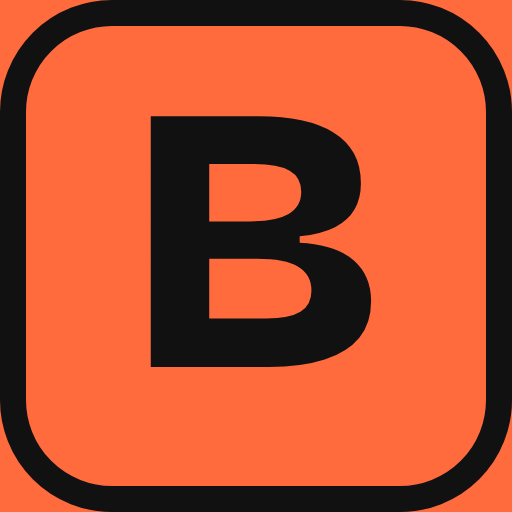
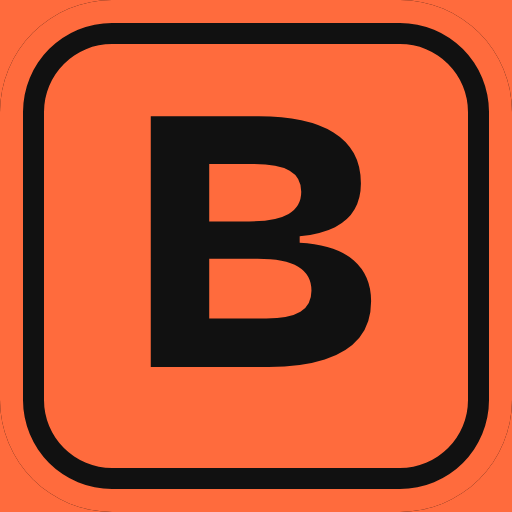
Repaso del viernes (semana + concepto de hace semanas) e icono con borde negro interior
Claude-Session: https://claude.ai/code/session_013CToqDYFkbzszWcoCkjAFo

Changed region(s): [[0.0, 0.0, 1.0, 1.0]]

diff --git a/index.html b/index.html
@@ -401,6 +401,7 @@ dialog h2:focus{outline:none}
 .pop{animation:pop .3s ease}
 .cmpt{width:100%;border-collapse:collapse;font-variant-numeric:tabular-nums}.cmpt th,.cmpt td{padding:8px 6px;text-align:right;border-bottom:1px solid var(--line)}.cmpt th:first-child,.cmpt td:first-child{text-align:left;color:var(--muted)}.cmpt th{font-size:.8rem;font-weight:700;vertical-align:bottom}.cmpt .dot{display:inline-block;width:10px;height:10px;border-radius:50%;margin-right:5px}.cmpt td:not(:first-child){white-space:nowrap}.cmpt td:first-child{font-size:.9rem}.cmpt tr.tot td{font-weight:800;font-size:1rem;border-bottom:0;color:var(--ink,inherit)}.cmpt tr.tot td:first-child{color:inherit}.cmpmsg{margin:12px 0 0;padding:10px 12px;border-radius:10px;background:color-mix(in srgb,var(--accent) 12%,transparent)}
 .cchips{display:flex;flex-wrap:wrap;gap:8px}.cchips .chip{cursor:pointer;width:auto;flex:0 0 auto;max-width:100%;padding:6px 10px;font-size:.8rem}#caprichos>*{min-width:0}.crow{grid-template-columns:minmax(0,1fr);min-width:0}.crow>*{min-width:0}.crow2 select{min-width:0;width:100%}.cenj button{min-width:0;white-space:nowrap;overflow:hidden;text-overflow:ellipsis}#capres .kpis{grid-template-columns:repeat(3,minmax(0,1fr));gap:6px}#capres .kpi{padding:10px 8px}#capres .big{font-size:1.15rem}#capres .kpi .eyebrow{font-size:.62rem}.crow{border:1px solid var(--line);border-left:5px solid var(--e);border-radius:12px;padding:10px 8px;display:grid;gap:8px}.crow1,.crow2{display:flex;gap:8px;align-items:center}.cin{font:inherit;padding:8px 10px;border:1px solid var(--line);border-radius:8px;background:var(--surface);color:var(--ink);min-width:0}.crow1 .cin{flex:1;font-weight:700}.cprice{display:flex;align-items:center;gap:4px;font-weight:700}.cprice .cin{width:5.5em;text-align:right}.crow2 select{flex:1}.cdel{border:0;background:transparent;color:var(--muted);font-size:1.1rem;padding:6px 8px;cursor:pointer}.cenj{display:grid;grid-template-columns:repeat(3,1fr);gap:4px}.cenj button{border:1.5px solid var(--x);background:transparent;color:var(--ink);border-radius:999px;padding:7px 2px;font:inherit;font-size:.74rem;font-weight:700;cursor:pointer}.cenj button.on{background:var(--x);color:#fff}.cmeta{margin:0;font-size:.85rem;color:var(--muted)}.cbar{display:grid;grid-template-columns:minmax(0,7.5em) 1fr auto;gap:8px;align-items:center;font-size:.85rem}.cbl{overflow:hidden;text-overflow:ellipsis;white-space:nowrap}.cbt{height:12px;border-radius:6px;background:var(--surface-2);overflow:hidden}.cbt i{display:block;height:100%;border-radius:6px}.cbv{font-variant-numeric:tabular-nums;font-weight:700}.cplan{border-radius:14px;padding:14px;background:color-mix(in srgb,var(--accent) 10%,transparent);display:grid;gap:10px}.cplan.good{background:color-mix(in srgb,var(--good) 12%,transparent)}.cplan h3{margin:0}.cplan p{margin:0}.linkbtn{border:0;background:none;padding:0;color:var(--c,var(--accent));font:inherit;font-weight:700;text-decoration:underline;cursor:pointer}
+.rvcard{border:2px solid var(--brand,var(--accent));background:color-mix(in srgb,var(--accent) 7%,var(--surface))}.rvcard h3{margin:0}.rvdone{display:flex;gap:12px;align-items:center;border-left:5px solid var(--good)}.rvi{font-size:1.5rem}.rvold{margin:0;font-size:.85rem;font-weight:700;color:var(--accent)}.rvback{padding:14px;border-radius:12px;background:var(--surface-2);font-size:1.05rem;line-height:1.45;border-left:4px solid var(--c)}
 </style>
 
 <div class="wrap">
@@ -936,7 +937,7 @@ const EXAMPLE=[3.7,4.3,3,2.7,3.3,2,4.7,2.3,3,4,2.7,2.3,4,3.7];
 const store={get(k,d){try{const v=localStorage.getItem("brujula:"+k);return v?JSON.parse(v):d}catch(e){return d}},set(k,v){try{localStorage.setItem("brujula:"+k,JSON.stringify(v))}catch(e){}}};
 const P0=()=>({v:[],s:[],s3:"",up:"",down:"",flow:"",causes:[],who:"",letter:"",upL:[],downL:[],whoL:[],fut:[],proud:[],exp:[{t:"",d:false},{t:"",d:false},{t:"",d:false}],f:{verb:"ayudar",que:"",quien:"",s:"",v:""},done:{},pa:null,paHist:[],versions:[],fDate:null,lastReview:null,reviews:0});
 let S={mood:store.get("mood",{}),grp:Object.assign({m:[],wk:{}},store.get("grp",{})),name:store.get("name",""),quizR:store.get("quiz",{}),qz:null,seen:store.get("seen",{}),tour:null,tourDone:store.get("tourDone",false),view:"hoy",answers:store.get("answers",{}),active:store.get("active",null),history:store.get("history",[]),tests:store.get("tests",[]),buddy:store.get("buddy",""),P:Object.assign(P0(),store.get("purpose",{})),pOpen:null,route:store.get("route",null),keep:store.get("keep",[]),extra:store.get("extra",{}),grat:store.get("grat",[]),more:false,rescued:false,breath:false,misIdx:0,misClosed:false,tips:store.get("tips",[]),bud:store.get("bud",{sent:false,skip:false,log:{}}),sharePrompt:store.get("sharePrompt",null),
-  step:0,exMode:"conceptos",exArea:null,exMyth:false,exQ:"",sim:{m:30,r:5,age:18,wait:10,fee:0},lat:{d:1.5,y:40},capr:store.get("capr",[]),caprH:store.get("caprH",8)};
+  step:0,exMode:"conceptos",exArea:null,exMyth:false,exQ:"",sim:{m:30,r:5,age:18,wait:10,fee:0},lat:{d:1.5,y:40},capr:store.get("capr",[]),learn:store.get("learn",{}),rev:store.get("rev",{}),rv:null,caprH:store.get("caprH",8)};
 const save=()=>{store.set("answers",S.answers);store.set("active",S.active);store.set("history",S.history);store.set("tests",S.tests);store.set("buddy",S.buddy);store.set("purpose",S.P);store.set("route",S.route);store.set("keep",S.keep);store.set("extra",S.extra);store.set("grat",S.grat);store.set("tips",S.tips);store.set("bud",S.bud);store.set("sharePrompt",S.sharePrompt);store.set("grp",S.grp);store.set("mood",S.mood)};
 const VALUES=["Aprender","Ayudar","Honestidad","Libertad","Familia","Amistad","Creatividad","Justicia","Aventura","Salud","Esfuerzo","Lealtad","Respeto","Naturaleza","Independencia","Diversión","Seguridad","Espiritualidad","Belleza","Liderazgo","Humor","Tranquilidad","Reconocimiento","Superación"];
 const STRENGTHS=["Creatividad","Curiosidad","Juicio","Amor por aprender","Perspectiva","Valentía","Perseverancia","Honestidad","Entusiasmo","Capacidad de amar","Amabilidad","Inteligencia social","Trabajo en equipo","Sentido de la justicia","Liderazgo","Capacidad de perdonar","Humildad","Prudencia","Autocontrol","Sensibilidad por la belleza","Gratitud","Esperanza","Humor","Espiritualidad"];
@@ -1013,7 +1014,7 @@ function badges(){const logs=allLogs(),areasDone=new Set(S.history.filter(h=>h.f
   ["star","Cumbre","Llega a 900 puntos.",pt>=900,[Math.min(pt,900),900],"hoy"]]}
 
 /* ---------- reto activo ---------- */
-function startReto(id){S.active={id,start:today(),plan:"",log:{},rating:null};save();toast("Reto empezado. ¡A por el día 1!");go("hoy")}
+function startReto(id){markLearn(id);S.active={id,start:today(),plan:"",log:{},rating:null};save();toast("Reto empezado. ¡A por el día 1!");go("hoy")}
 function dayN(){return S.active?Math.min(diff(S.active.start,today())+1,99):0}
 function goodDays(a){let g=0;for(let k=0;k<7;k++){const v=a.log[addDays(a.start,k)];if(v==="si"||v==="poco")g++}return g}
 function finishReto(next){const a=S.active,passed=goodDays(a)>=4;S.history.push({id:a.id,start:a.start,end:today(),plan:a.plan,log:a.log,rating:a.rating,finished:true,passed,skipped:next==="skip",sto:a.sto,myEnd:a.myEnd});
@@ -1055,7 +1056,7 @@ const isIOS=/iPhone|iPad|iPod/i.test(UA);
 const isStandalone=(()=>{try{return !!(navigator.standalone||(window.matchMedia&&window.matchMedia("(display-mode: standalone)").matches))}catch(e){return false}})();
 let canStore=true;try{localStorage.setItem("brujula:t","1");localStorage.removeItem("brujula:t")}catch(e){canStore=false}
 try{navigator.storage&&navigator.storage.persist&&navigator.storage.persist()}catch(e){}
-const KEYS=["capr","caprH","name","seen","quiz","grp","mood","answers","active","history","tests","buddy","purpose","route","keep","extra","grat","tips","bud","sharePrompt"];
+const KEYS=["learn","rev","capr","caprH","name","seen","quiz","grp","mood","answers","active","history","tests","buddy","purpose","route","keep","extra","grat","tips","bud","sharePrompt"];
 function backupCode(){const o={};KEYS.forEach(k=>o[k]=store.get(k,null));o.v=1;return "BRUJULA-"+btoa(unescape(encodeURIComponent(JSON.stringify(o))))}
 function restoreCode(code){try{const raw=code.trim().replace(/^BRUJULA-/,"");const o=JSON.parse(decodeURIComponent(escape(atob(raw))));if(o.v!==1)throw 0;KEYS.forEach(k=>{if(o[k]!==null&&o[k]!==undefined)store.set(k,o[k])});return true}catch(e){return false}}
 function envBanner(){
@@ -1179,10 +1180,47 @@ function grpEditor(){
    ${ks.length?`<div><p class="eyebrow" style="margin-bottom:4px">Semanas anteriores</p>${ks.map(k=>{const r=grpDone(k);return `<p class="muted" style="font-size:.88rem">Viernes ${k.split("-").reverse().slice(0,2).join("/")}: lo cumplisteis ${r.yes.length} de ${S.grp.m.length+1}${r.yes.length?` (${esc(grpList(r.yes))})`:""}</p>`}).join("")}</div>`:""}
   </div>${grpFriCard()}`;
 }
+/* ---------- repaso semanal ---------- */
+function markLearn(id){if(!CI[id])return;const t=today(),x=S.learn[id];if(x&&x.l===t)return;S.learn[id]={f:x?x.f:t,l:t};store.set("learn",S.learn)}
+function rvSeed(s){let h=2166136261;for(const ch of s){h^=ch.charCodeAt(0);h=Math.imul(h,16777619)}return ()=>{h^=h<<13;h^=h>>>17;h^=h<<5;return ((h>>>0)%10000)/10000}}
+function rvItems(fk){
+  const R=rvSeed(fk),from=addDays(fk,-6),old1=addDays(fk,-35),old2=addDays(fk,-14);
+  const L=Object.entries(S.learn).filter(([id])=>CI[id]);
+  const shuf=a=>{a=a.slice();for(let j=a.length-1;j>0;j--){const r=Math.floor(R()*(j+1));[a[j],a[r]]=[a[r],a[j]]}return a};
+  const wk=shuf(L.filter(([,x])=>x.l>=from).map(([id])=>id));
+  const oldPref=shuf(L.filter(([id,x])=>x.f<=addDays(fk,-21)&&x.f>=old1&&!wk.includes(id)).map(([id])=>id));
+  const oldAny=shuf(L.filter(([id,x])=>x.f<=old2&&!wk.includes(id)&&!oldPref.includes(id)).map(([id])=>id));
+  const old=[...oldPref,...oldAny];
+  const nW=Math.min(wk.length,4),nO=Math.min(old.length,5-nW>1&&wk.length<4?5-nW:1);
+  const ids=[...wk.slice(0,nW).map(id=>[id,0]),...old.slice(0,nO).map(id=>[id,1])];
+  return ids.map(([id,isOld])=>{const qs=(QZ[id.slice(0,3)]||[]).map((q,i)=>[q,i]).filter(([q])=>q[0]===id);
+    if(qs.length){const [,qi]=qs[Math.floor(R()*qs.length)],o=shuf([0,1,2]);return {id,old:isOld,type:"q",qi,o}}
+    return {id,old:isOld,type:"f"}});
+}
+function rvCard(){
+  const fk=friKey();if(!fk)return "";const done=S.rev[fk];
+  if(done)return `<div class="card rvdone"><span class="rvi">🔁</span><div><b>Repaso de la semana hecho</b><p class="muted" style="margin:2px 0 0">Has recordado ${done.ok} de ${done.n}. <button class="linkbtn" data-act="rv-start">Repetirlo</button></p></div></div>`;
+  const it=rvItems(fk);if(!it.length)return "";
+  return `<div class="card stack rvcard"><p class="eyebrow">Viernes · 2 minutos</p><h3>🔁 Repaso de la semana</h3><p class="muted">${it.length} ${it.length===1?"pregunta":"preguntas"} sobre lo que has leído esta semana${it.some(x=>x.old)?" y alguna de hace unas semanas":""}. Intentar recordar es lo que hace que algo se quede: releer no sirve casi de nada.</p><button class="btn" data-act="rv-start" style="width:max-content">Empezar el repaso</button></div>`;
+}
+function vRepaso(){
+  const Z=S.rv;
+  if(!Z||!Z.items.length)return `<section class="stack"><p class="eyebrow">Repaso de la semana</p><h1>Nada que repasar todavía</h1><p class="muted">Cuando abras conceptos durante la semana, el viernes podrás repasarlos aquí.</p><button class="btn" data-go="explorar" style="width:max-content">Ir a Explorar</button></section>`;
+  const n=Z.items.length;
+  if(Z.step<n){const it=Z.items[Z.step],c=CI[it.id],a=AREAS[c.a];
+    const top=`<div class="row" style="justify-content:space-between"><span class="chip"><span class="dot"></span>${a.n}</span><span class="muted" style="font-size:.85rem">${Z.step+1} de ${n}</span></div><div class="progress"><span style="width:${Z.step/n*100}%"></span></div>${it.old?`<p class="rvold">De hace unas semanas: ¿aún te acuerdas?</p>`:""}`;
+    if(it.type==="q"){const q=QZ[it.id.slice(0,3)][it.qi];return `<section class="stack"><p class="eyebrow">Repaso de la semana</p><div class="card stack area" style="--h:${a.h}">${top}<h2 style="font-size:1.2rem">${esc(q[1])}</h2><div class="stack" style="gap:8px">${it.o.map(o=>`<button class="btn ghost" style="text-align:left;justify-content:flex-start;white-space:normal;max-width:100%" data-rva="${o}">${esc(q[2+o])}</button>`).join("")}</div><p class="muted" style="font-size:.8rem">Las soluciones, al final</p></div></section>`}
+    return `<section class="stack"><p class="eyebrow">Repaso de la semana</p><div class="card stack area" style="--h:${a.h}">${top}<h2 style="font-size:1.2rem">¿Cuál es la idea clave de «${esc(c.t)}»?</h2>${Z.flip?`<div class="rvback">${esc(c.q)}</div><p class="muted">Sé sincero: nadie más lo ve.</p><div class="row"><button class="btn" data-rva="0">Lo recordaba</button><button class="btn ghost" data-rva="1">No del todo</button></div>`:`<p class="muted">Intenta decirla en voz alta o en tu cabeza antes de mirar. Aunque falles, el esfuerzo de intentarlo ya te ayuda a recordarla.</p><button class="btn" data-act="rv-flip" style="width:max-content">Ver la respuesta</button>`}</div></section>`}
+  const ok=Z.ans.filter(x=>x===0).length;
+  return `<section class="stack"><p class="eyebrow">Repaso de la semana</p><div class="card stack" style="border:2px solid var(--good)"><h1>Has recordado ${ok} de ${n}</h1><p>${ok===n?"¡Todo! Lo de esta semana se ha quedado.":ok>=n/2?"Buen repaso. Lo que has fallado, échale un vistazo ahora: es justo el momento en que más se fija.":"Es normal olvidar: nos pasa a todos. Mira ahora lo que has fallado; repasar justo después de fallar es cuando más se aprende."}</p><div class="row"><button class="btn" data-go="hoy">Volver a Hoy</button></div></div>
+   <h2 style="font-size:1.15rem">Las soluciones</h2><div class="stack" style="gap:10px">${Z.items.map((it,j)=>{const c=CI[it.id],g=Z.ans[j]===0;
+     if(it.type==="q"){const q=QZ[it.id.slice(0,3)][it.qi];return `<div class="card stack" style="gap:6px;border-left:5px solid var(${g?"--good":"--warn"})"><p style="font-weight:700">${j+1}. ${esc(q[1])}</p><p style="color:var(${g?"--good":"--warn"});font-weight:700">${g?"✓ Acertada":"✗ Tu respuesta: "+esc(q[2+Z.ans[j]])}</p>${g?"":`<p><b>Correcta:</b> ${esc(q[2])}</p>`}<p class="muted" style="font-size:.9rem">${esc(q[5])}</p><button class="btn ghost" data-open="${it.id}" style="max-width:100%;width:max-content;padding:6px 14px;white-space:normal;text-align:left">Repasar: ${esc(c.t)} →</button></div>`}
+     return `<div class="card stack" style="gap:6px;border-left:5px solid var(${g?"--good":"--warn"})"><p style="font-weight:700">${j+1}. Idea clave de «${esc(c.t)}»</p><p style="color:var(${g?"--good":"--warn"});font-weight:700">${g?"✓ La recordabas":"✗ No del todo"}</p><p class="muted" style="font-size:.9rem">${esc(c.q)}</p><button class="btn ghost" data-open="${it.id}" style="max-width:100%;width:max-content;padding:6px 14px;white-space:normal;text-align:left">Repasar: ${esc(c.t)} →</button></div>`}).join("")}</div></section>`;
+}
 /* ---------- grupo guiado ---------- */
 function progressLine(){const a=S.active;if(!a)return "";const c=CI[a.id];return `llevo ${goodDays(a)} de 7 días con mi reto «${c.t}»`}
 function groupCards(){
-  const t=today(),B=S.bud,out=[];const gf=grpFriCard();if(gf)out.push(gf);
+  const t=today(),B=S.bud,out=[];const gf=grpFriCard();if(gf)out.push(gf);const rc=rvCard();if(rc)out.push(rc);
   if(S.sharePrompt&&CI[S.sharePrompt]){const c=CI[S.sharePrompt],msg=`¡He superado mi reto «${c.t}» en Brújula! Retos superados: ${S.history.filter(h=>h.passed).length}.`;
     out.push(`<div class="card stack" style="border:2px solid var(--good)"><p class="eyebrow">Reto superado</p><h3>¿Lo compartes con tu grupo o tu compañero?</h3><p class="muted">Contarlo refuerza lo que has conseguido. Es opcional.</p><p class="share" id="cp-share">${esc(msg)}</p><div class="row"><button class="btn" data-act="copy" data-copyid="cp-share">Copiar mensaje</button><button class="btn ghost" data-act="share-done">Ahora no</button></div></div>`)}
   if(S.active&&S.active.plan&&(dayN()>=3||S.history.length)&&!S.buddy&&!B.skip)out.push(`<div class="card stack" style="border:2px dashed var(--brand)"><p class="eyebrow">Opcional · 1 minuto</p><h3>¿Quieres a alguien que te pregunte cómo vas?</h3><p class="muted">Saber que un amigo te va a preguntar cada viernes ayuda mucho a no abandonar. No hace falta que use Brújula. Tú solo le mandas un mensaje y la app te recordará cada viernes qué decirle.</p>
@@ -1299,7 +1337,7 @@ function vMas(){
 /* ---------- navegación ---------- */
 const NAV=[["hoy","Hoy","M12 3v3M12 18v3M3 12h3M18 12h3M12 8a4 4 0 1 0 0 8 4 4 0 0 0 0-8z"],["ruta","Ruta","M5 19c4 0 4-7 8-7s4-7 8-7M5 19a2 2 0 1 0 0 .1M19 5a2 2 0 1 0 0 .1"],["proposito","Propósito","M12 3a9 9 0 1 0 0 18 9 9 0 0 0 0-18zM15 9l-2 5-4 1 2-5z"],["mapa","Mapa","M12 3l8 5v8l-8 5-8-5V8z"],["explorar","Explorar","M11 4a7 7 0 1 0 0 14 7 7 0 0 0 0-14zM20 20l-4-4"],["mas","Más","M5 12h.01M12 12h.01M19 12h.01"]];
 function renderNav(){const pend=S.active&&(()=>{try{return todayItems().some(x=>x.st==="todo")}catch(e){return false}})();document.getElementById("nav").innerHTML=NAV.map(([k,l,p])=>`<button data-go="${k}" class="${S.tour!=null&&TOUR[S.tour][0]===k?"tourhl":""}" aria-current="${S.view===k&&!S.testing}">${k==="hoy"&&pend&&S.view!=="hoy"?'<span class="dot" aria-label="Tienes algo pendiente hoy"></span>':""}<svg viewBox="0 0 24 24" fill="none" stroke="currentColor" stroke-width="2.2" stroke-linecap="round" stroke-linejoin="round"><path d="${p}"/></svg>${l}</button>`).join("")}
-const VNAME={hoy:"Hoy",ruta:"Ruta",proposito:"Propósito",mapa:"Mapa",explorar:"Explorar",mas:"Más",dinero:"Dinero",grupo:"Grupo",ayuda:"Ayuda",dudas:"Dudas frecuentes"};
+const VNAME={hoy:"Hoy",ruta:"Ruta",proposito:"Propósito",mapa:"Mapa",explorar:"Explorar",mas:"Más",dinero:"Dinero",repaso:"Repaso",grupo:"Grupo",ayuda:"Ayuda",dudas:"Dudas frecuentes"};
 function go(v,fromNav){if(fromNav||S.tour!=null)S.back=null;else if(v!==S.view&&!S.testing)S.back={v:S.view,y:window.scrollY};S.view=v;S.testing=false;render();window.scrollTo({top:0})}
 
 /* ---------- vistas ---------- */
@@ -1364,7 +1402,7 @@ function vIntro(){
 
    <section class="north" style="margin-top:28px;align-items:flex-start"><p class="eyebrow">Tu primer paso</p><p class="sent">Nadie nace sabiendo vivir. Se aprende. Y tú puedes empezar hoy, en 6 minutos.</p>${CTA.replace('class="btn"','class="btn" ').replace('<p class="muted"','<p style="opacity:.75"')}</section>`;
 }
-const APP_V="20261014070358";
+const APP_V="20261014075649";
 function checkUpdate(){try{if(!/^https?:/.test(location.protocol)||!/github\.io$/.test(location.hostname))return;fetch(location.pathname+"?nc="+Date.now(),{cache:"no-store"}).then(r=>r.text()).then(t=>{const m=t.match(/const APP_V="(\d+)"/);if(m&&m[1]!==APP_V&&!document.getElementById("updbar")){const b=document.createElement("button");b.id="updbar";b.className="updbar";b.textContent="✨ Hay una versión nueva de Brújula. Toca para actualizar";b.onclick=()=>location.reload();document.body.appendChild(b)}}).catch(()=>{})}catch(e){}}
 setTimeout(checkUpdate,1500);document.addEventListener("visibilitychange",()=>{if(!document.hidden)checkUpdate()});
 (()=>{let b;const upd=()=>{if(!b){b=document.createElement("button");b.className="totop";b.setAttribute("aria-label","Subir arriba");b.innerHTML="↑ Subir";b.onclick=()=>window.scrollTo({top:0,behavior:"smooth"});document.body.appendChild(b)}b.classList.toggle("on",window.scrollY>window.innerHeight*1.2)};window.addEventListener("scroll",upd,{passive:true})})();
@@ -1903,7 +1941,7 @@ function pType(p){p=p.replace(/^Los 7 hábitos \(Stephen Covey\)$/,"Los 7 hábit
   if(/Jugar Bien/.test(p))return ["Web oficial",p,"Información del Gobierno sobre juego y apuestas: jugarbien.es."];
   return ["Libro",p,"Un libro, para leer con calma si el tema te engancha. Puedes buscarlo en la biblioteca."]}
 function openConcept(id){
-  const c=CI[id];if(!c)return;const a=AREAS[c.a],dlg=document.getElementById("dlg");
+  const c=CI[id];if(!c)return;markLearn(id);const a=AREAS[c.a],dlg=document.getElementById("dlg");
   const isActive=S.active&&S.active.id===id;
   dlg.innerHTML=`<div class="dlgback"><button data-act="close">← Volver</button></div><div class="dlg area" style="--h:${a.h}"><div class="row" style="justify-content:space-between"><span class="chip"><span class="dot"></span>${a.n}</span><span class="row" style="gap:8px"><span class="lv ${c.e==="X"?"X":c.n}">${lvTag(c)}</span>${c.e==="X"?"":`<span class="ev ${c.e}">${EV[c.e]}</span>`}</span></div>
    <div class="cch"><span class="cic big">${/^Es un sesgo/.test(c.q)?"🧩":AICON[a.k]}</span><h2>${esc(c.t)}</h2></div><div><h4>Qué es</h4><p>${esc(c.q)}</p></div><p class="challenge">Reto de la semana: ${esc(c.h)}</p>${exOf(c.id)?`<div><h4>Un ejemplo</h4><p>${esc(exOf(c.id)[0])}</p></div><div><h4>Un plan que puedes copiar</h4><p>${esc(exOf(c.id)[1])}</p></div><div><h4>Si un día cuesta</h4><p>${esc(exOf(c.id)[2])}</p></div>`:""}
@@ -1916,7 +1954,7 @@ function openConcept(id){
 }
 function render(){
   renderNav();
-  const v={hoy:vHoy,ruta:vRuta,mas:vMas,proposito:vProposito,mapa:vMapa,explorar:vExplorar,dinero:vDinero,grupo:vGrupo,ayuda:vAyuda,dudas:vDudas}[S.view]();
+  const v={hoy:vHoy,ruta:vRuta,mas:vMas,proposito:vProposito,mapa:vMapa,explorar:vExplorar,dinero:vDinero,repaso:vRepaso,grupo:vGrupo,ayuda:vAyuda,dudas:vDudas}[S.view]();
   document.getElementById("app").innerHTML=`<div class="view" style="${S.tour!=null?"padding-bottom:240px":""}">${S.back&&S.back.v!==S.view&&!S.testing?`<button class="backbar" data-act="goback">← Volver a ${VNAME[S.back.v]||"atrás"}</button>`:""}${envBanner()?`<div style="margin-bottom:16px">${envBanner()}</div>`:""}${v}<footer class="muted" style="text-align:center;font-size:.78rem;line-height:1.5;padding:32px 8px 8px;border-top:1px solid var(--line);margin-top:28px"><button data-go="mas#reportar" style="background:none;border:0;padding:0;color:var(--bad);font:inherit;font-weight:800;text-decoration:underline;cursor:pointer">🐞 ¿Has visto un error? Avísanos</button><br>Brújula · Creada por <b>Raúl Cañas</b><br>© ${new Date().getFullYear()} Raúl Cañas. Todos los derechos reservados.<br><span style="font-size:.72rem">Los vídeos, libros y webs enlazados pertenecen a sus autores.</span></footer></div>`;
   if(S.view==="dudas"&&S.faqQ)faqFilter();
   const tb=document.getElementById("tourbox");if(tb)tb.innerHTML=tourBar();
@@ -1976,6 +2014,7 @@ document.addEventListener("click",e=>{
   if(d.clr){if(d.clr==="q")S.exQ="";if(d.clr==="area")S.exArea=null;if(d.clr==="myth")S.exMyth=false;if(d.clr==="all"){S.exQ="";S.exArea=null;S.exMyth=false}render();return}
   if(d.mode){S.exMode=d.mode;S.exQ="";render();return}
   if(d.qz){qzStart(d.qz);render();window.scrollTo({top:0});return}
+  if(d.rva!==undefined&&S.rv){const Z=S.rv;Z.ans[Z.step]=+d.rva;Z.step++;Z.flip=false;if(Z.step===Z.items.length&&friKey()){const ok=Z.ans.filter(x=>x===0).length;S.rev[Z.fk]={ok,n:Z.items.length,date:today()};store.set("rev",S.rev)}render();window.scrollTo({top:0});return}
   if(d.qg!==undefined){S.qz.guess=+d.qg;S.qz.t0=Date.now();render();return}
   if(d.qa!==undefined){const Z=S.qz,now=Date.now(),fast=now-(Z.t0||now)<2500;Z.t0=now;if(diagHit("quiz",fast))Z.diag=1;else if(!fast)Z.diag=0;Z.ans[Z.step]=+d.qa;Z.step++;if(Z.step===10){const ok=Z.ans.filter(x=>x===0).length,r=S.quizR[Z.k]||{best:0,n:0};S.quizR[Z.k]={last:ok,best:Math.max(r.best,ok),n:r.n+1,date:today()};store.set("quiz",S.quizR);toast(ok+" de 10")}render();window.scrollTo({top:0});return}
   if(d.qx){if(d.qx==="back"){S.qz.step--;S.qz.ans.pop();S.qz.t0=Date.now()}else S.qz=null;render();window.scrollTo({top:0});return}
@@ -1986,6 +2025,8 @@ document.addEventListener("click",e=>{
   else if(act==="cap-add"){const i=+d.v,pr=CAPP[i];S.capr.push(pr?{n:pr[1],p:pr[2],f:pr[3],e:1}:{n:"",p:1,f:"s",e:1});capSave();render();if(!pr){const n=document.getElementById("cn"+(S.capr.length-1));n&&n.focus()}}
   else if(act==="cap-del"){S.capr.splice(+d.v,1);capSave();render()}
   else if(act==="cap-e"){const [i,j]=d.v.split(":").map(Number);if(S.capr[i]){S.capr[i].e=j;capSave();render()}}
+  else if(act==="rv-start"){const fk=friKey()||today();S.rv={fk,items:rvItems(fk),step:0,ans:[],flip:false};go("repaso")}
+  else if(act==="rv-flip"){S.rv.flip=true;render()}
   else if(act==="retest"){S.answers={};save();S.testing=true;S.step=0;render();window.scrollTo({top:0})}
   else if(act==="next"){if(S.step<NA-1){S.step++;render();window.scrollTo({top:0})}else{const first=!S.route;S.tests.push({date:today(),scores:scores()});S.route=first?buildRoute(scores()):mergeRoute(scores());save();toast(first?"+25 · Mapa y ruta listos":"+25 · Mapa nuevo. Tu ruta sigue y se ha actualizado");S.view="mapa";S.testing=false;render();window.scrollTo({top:0})}}
   else if(act==="prev"){S.step--;render()}
@@ -2059,6 +2100,7 @@ document.addEventListener("toggle",e=>{if(e.target.id==="learn")S.learnOpen=e.ta
 document.getElementById("dlg").addEventListener("click",e=>{if(e.target.id==="dlg")e.target.close()});
 window.addEventListener("popstate",()=>{const d=document.getElementById("dlg");if(d&&d.open)d.close()});
 document.getElementById("dlg").addEventListener("close",()=>{try{if(history.state&&history.state.dlg)history.back()}catch(e){}});
+if(!store.get("learnInit",false)){Object.keys(S.seen||{}).forEach(id=>{if(CI[id]&&Object.values(S.seen[id]).some(Boolean)&&!S.learn[id])S.learn[id]={f:today(),l:today()}});if(S.active&&CI[S.active.id]&&!S.learn[S.active.id])S.learn[S.active.id]={f:S.active.start||today(),l:today()};store.set("learn",S.learn);store.set("learnInit",true)}
 if(complete()&&!S.tests.length){S.tests.push({date:today(),scores:scores()})}
 if(!S.route&&curScores()){S.route=buildRoute(curScores())}
 save();
